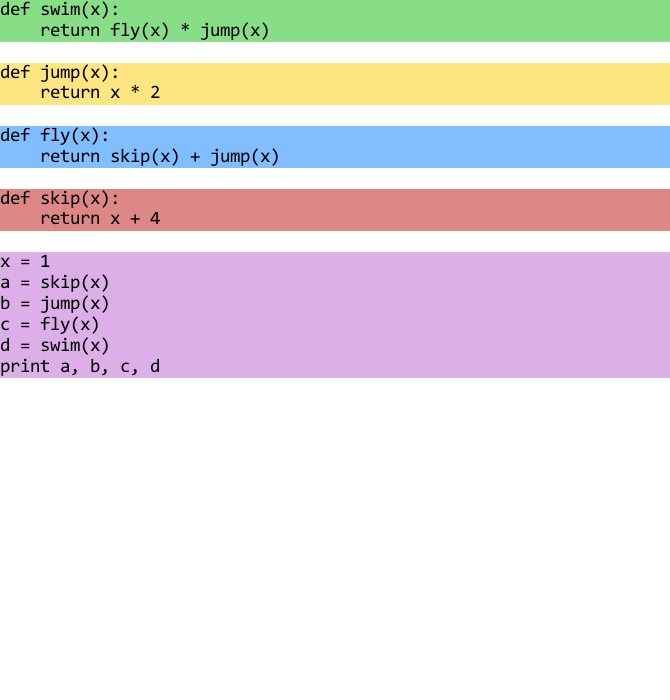
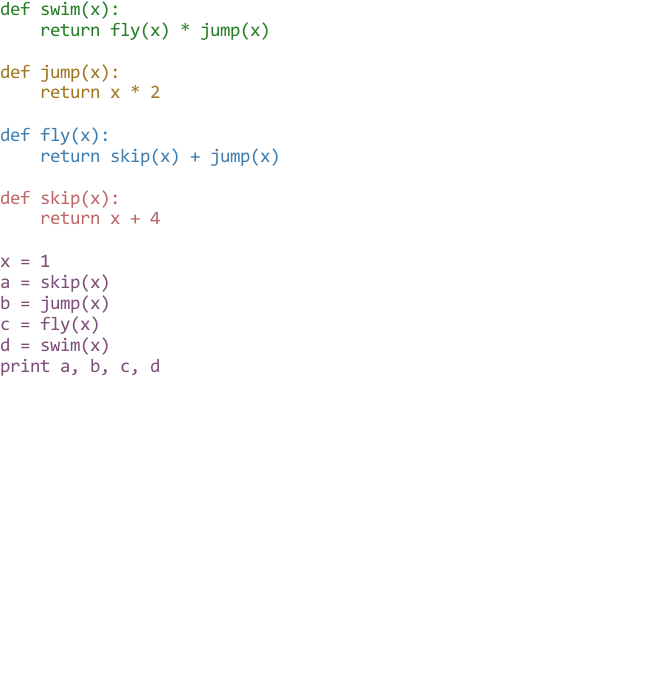
Updated admin page

diff --git a/eyecode2/app/templates/core/details.html b/eyecode2/app/templates/core/details.html
@@ -79,9 +79,21 @@
   {% endif %}
 </dl>
 
+<div class="row">
+<div class="col-xs-4">
+    <h4>Predicted Output</h4>
 {% if t.response %}
-<textarea cols="35" rows="8">{{ t.response }}</textarea>
+    <textarea cols="35" rows="8">{{ t.response }}</textarea>
 {% endif %}
+</div>
+
+<div class="col-xs-4">
+    <h4>Actual Output</h4>
+    <textarea cols="35" rows="8">{{ output[(t.program_name())] }}</textarea>
+</div>
+
+</div>
+
 <hr />
 
 {% endfor %}

diff --git a/render_program.py b/render_program.py
@@ -14,6 +14,7 @@ if __name__ == "__main__":
     parser.add_argument("--baseimage", type=str, default="")
     parser.add_argument("--header", type=str, default="")
     parser.add_argument("--line_colors", type=str, default=None)
+    parser.add_argument("--bg_color", type=str, default=None)
     args = parser.parse_args()
 
     program_lines = [line.rstrip() for line in open(args.program_path, "r")]
@@ -28,6 +29,9 @@ if __name__ == "__main__":
     image = Image.new("RGBA", (args.width, args.height), white)
     draw = ImageDraw.Draw(image)
     font = ImageFont.truetype("fonts/CONSOLA.TTF", args.fontsize)
+
+    if args.bg_color is not None:
+        draw.rectangle([(0, 0), image.size], fill=args.bg_color)
 
     y_offset = args.yoffset
     line_height = args.fontsize + args.lineoffset
@@ -51,12 +55,14 @@ if __name__ == "__main__":
                 draw.text(((args.width / 2) - (size[0] / 2), y_offset), line, white, font=font)
                 header = False
             else:
+                text_color = black
                 if line_idx < len(line_colors):
                     lc = line_colors[line_idx]
                     if len(lc) > 0:
-                        draw.rectangle([(0, y_offset), (args.width, y_offset + line_height - 1)], fill=lc)
+                        #draw.rectangle([(0, y_offset), (args.width, y_offset + line_height - 1)], fill=lc)
+                        text_color = lc
 
-                draw.text((args.xoffset, y_offset), line, black, font=font)
+                draw.text((args.xoffset, y_offset), line, text_color, font=font)
             
         # Next line
         y_offset += line_height

diff --git a/eyecode2/app/core/views.py b/eyecode2/app/core/views.py
@@ -29,7 +29,8 @@ def fname_noext(path):
 program_output = {}
 
 for p in glob(os.path.join(PROGRAM_OUTPUT_DIR, "*.txt")):
-    program_output[fname_noext(p)] = open(p, "r").read()
+    # Strip .txt off the end
+    program_output[fname_noext(p[:-4])] = open(p, "r").read()
 
 def get_experiment():
     assert "experiment_id" in session, "Missing experiment id"
@@ -356,7 +357,7 @@ def finish():
     # Try auto-grading responses
     for t in exp.trials:
         try:
-            prog_name = "{0}_{1}.py".format(t.program_base, t.program_version)
+            prog_name = "{0}_{1}".format(t.program_base, t.program_version)
             expected_output = program_output[prog_name]
             grade = grade_string(expected_output, t.response)
 
@@ -400,5 +401,6 @@ def details():
 
     # Experiment details
     exp = Experiment.query.get(int(request.args["id"]))
-    return render_template("core/details.html", exp=exp, grade_category=grade_category)
+    return render_template("core/details.html", exp=exp,
+            grade_category=grade_category, output=program_output)
 

diff --git a/eyecode2/app/__init__.py b/eyecode2/app/__init__.py
@@ -130,6 +130,9 @@ class Trial(db.Model):
     def completed(self):
         return self.started is not None and self.ended is not None
 
+    def program_name(self):
+        return "{0}_{1}".format(self.program_base, self.program_version)
+
 # --------------------------------------------------
 
 class TrialResponse(db.Model):
